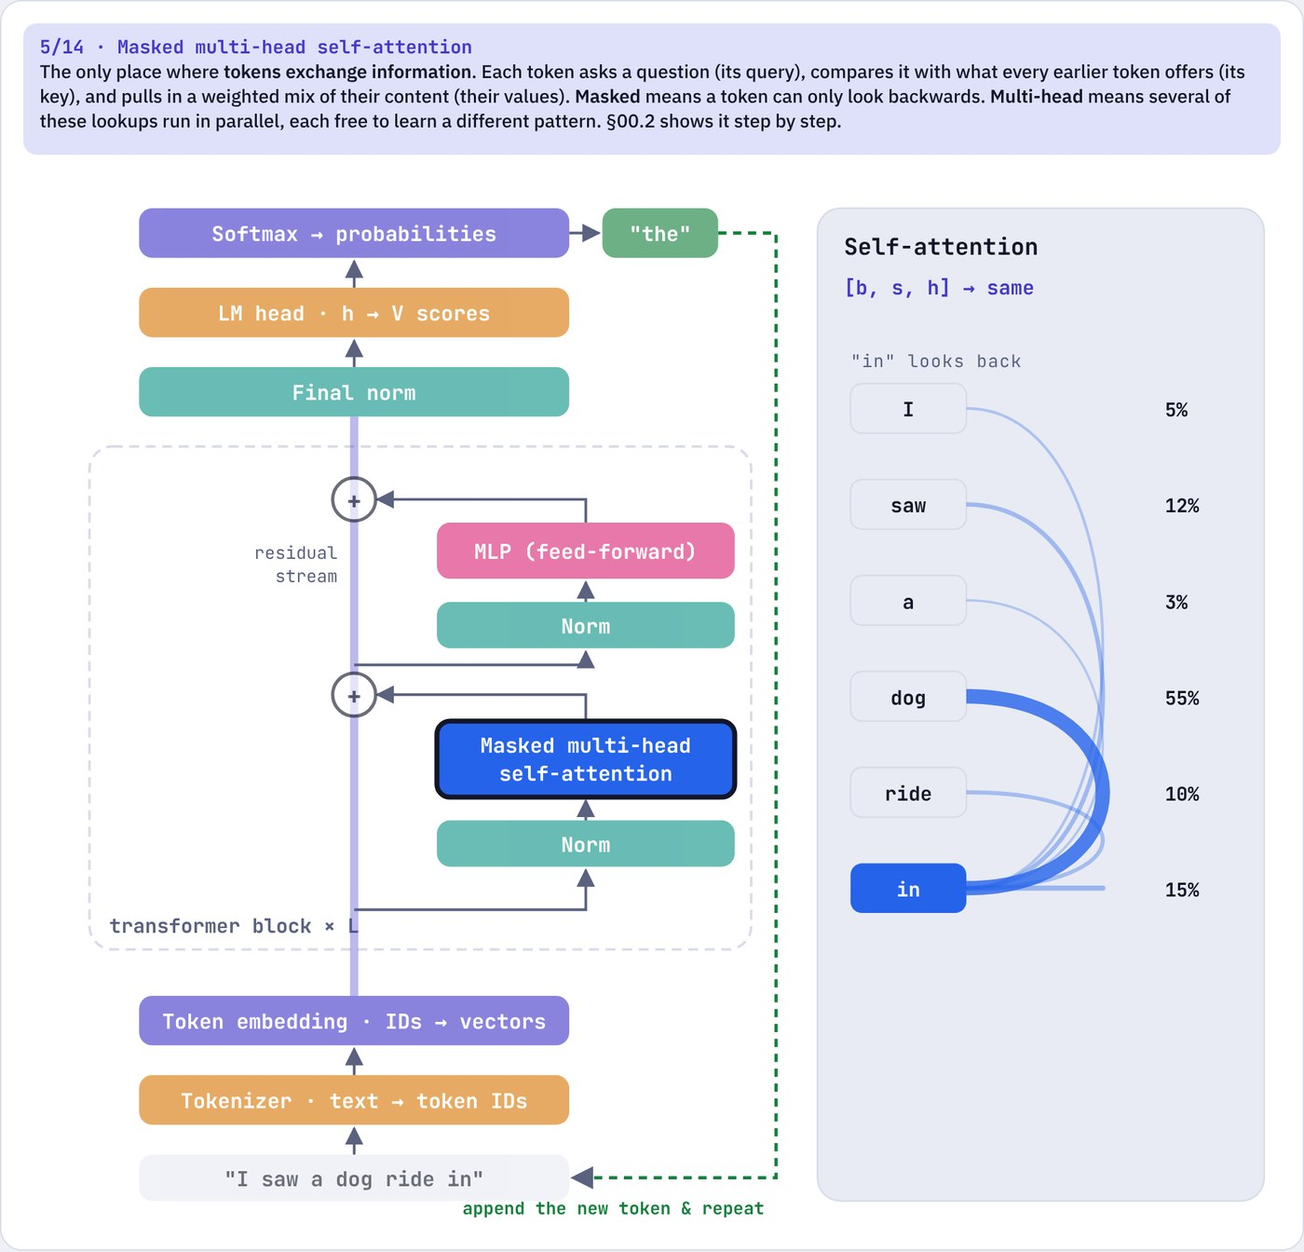
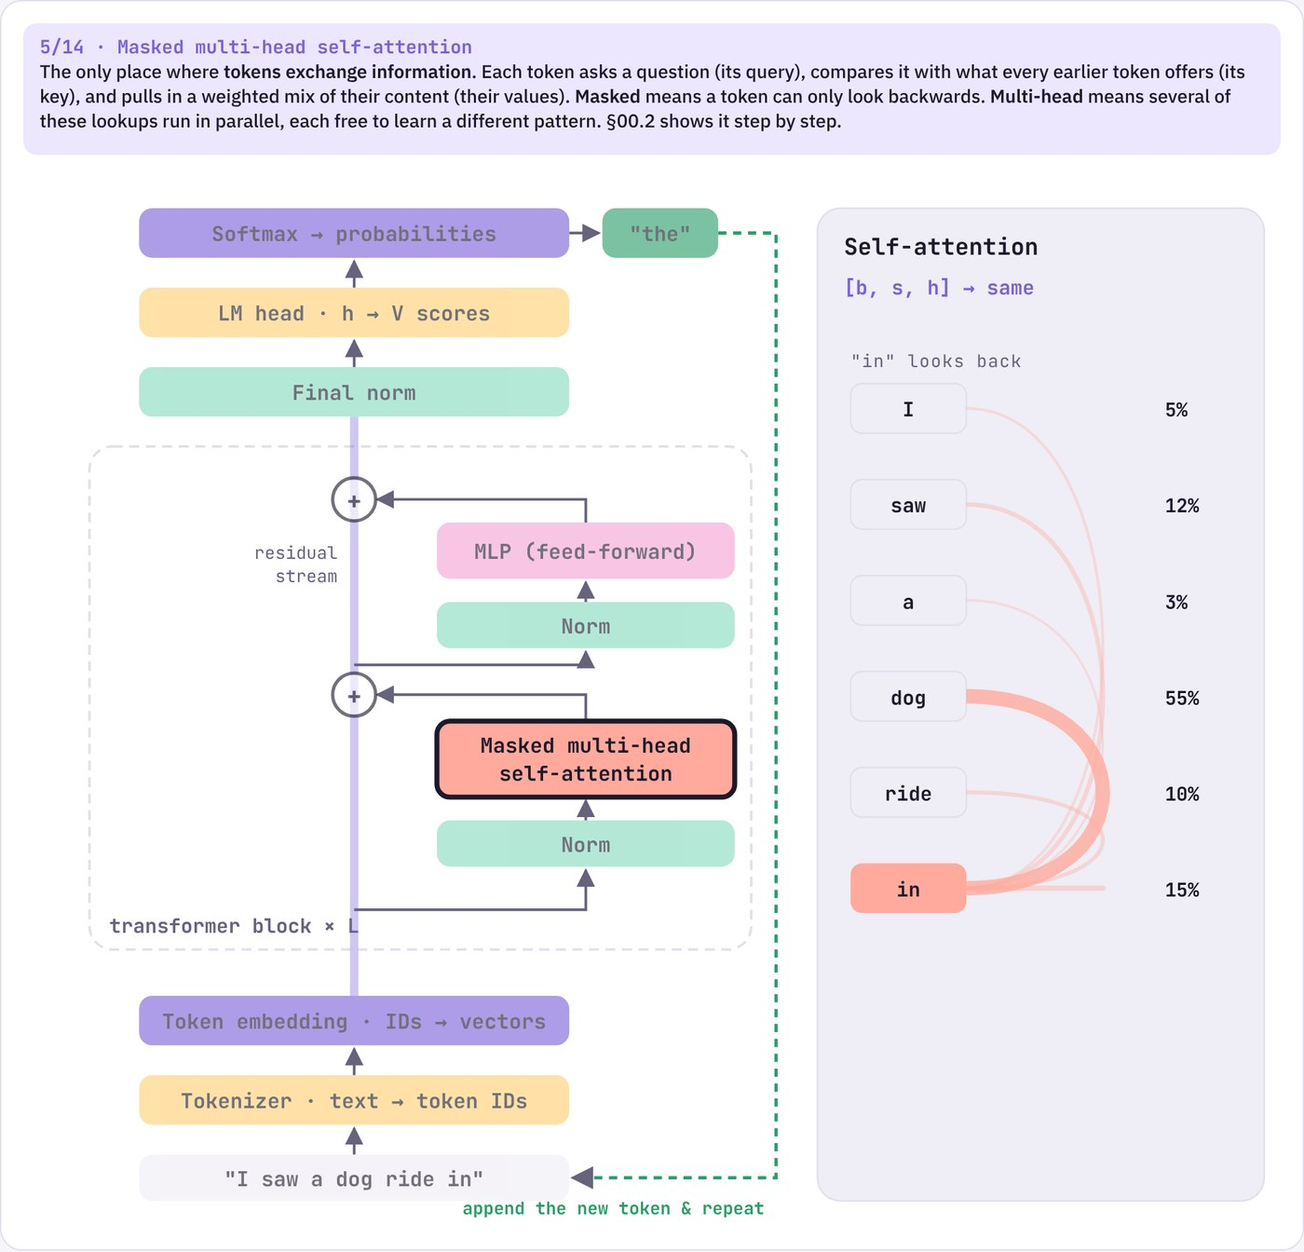
feat(posts): cover every inference optimisation in the visual guide
Adds batching, PagedAttention, GQA/MQA, FlashAttention, quantization, 2:4 sparsity, distillation, speculative decoding, pipeline and combined parallelism; regenerates all figures in the pastel palette.

Claude-Session: https://claude.ai/code/session_01UFQWSUsJMaVbTV8uBDUF1U

diff --git a/posts/2026-11-14-how-llm-inference-works-visual-guide/index.html b/posts/2026-11-14-how-llm-inference-works-visual-guide/index.html
@@ -29,6 +29,7 @@
 <li>what a language model is made of, piece by piece, and how text flows through it</li>
 <li>how <strong>attention</strong> lets one word borrow meaning from the words before it</li>
 <li>why writing a reply is slow, and why the limit is usually memory rather than arithmetic</li>
+<li>the tricks that make serving cheaper: smarter batching, paged memory, lighter attention, smaller numbers, and guessing ahead</li>
 <li>how a model too big for one GPU gets split across many, and what each kind of split costs</li>
 <li>why training a model needs many times more memory than running it</li>
 </ul>
@@ -102,54 +103,116 @@
 
 <blockquote>During decode, the GPU is not busy doing maths. It is busy fetching numbers from memory.</blockquote>
 
-<h2>4. When one GPU is not enough</h2>
+<p>Almost every optimisation that follows attacks one of two costs you have just seen: reading the weights again for every token, or storing the KV cache for every conversation.</p>
+
+<h2>4. Serving many people at once</h2>
+
+<p>If decode spends its time reading the weights, the obvious fix is to make each read count for more. Put several conversations in one <strong>batch</strong>, and every read of the weights serves all of them at once. The catch is that replies finish at different times. In <strong>static batching</strong>, the whole batch waits for its longest reply, and finished slots sit empty. In <strong>in-flight batching</strong> (also called continuous batching), a finished conversation leaves straight away and a waiting one takes its slot on the next step:</p>
+
+<img src="https://raw.githubusercontent.com/ylnhari/blog/main/posts/2026-11-14-how-llm-inference-works-visual-guide/images/07-batching.jpg" alt="Two timelines of four batch slots. Static batching takes 31 steps with slots idle 40% of the time while waiting for the longest request; in-flight batching refills each slot as soon as it frees up and finishes the same twelve requests in 23 steps.">
+
+<p>Batching only helps if there is room in memory for many KV caches. Older servers reserved one long, unbroken stretch of memory per conversation, sized for the longest reply it <em>might</em> write. NVIDIA's example: a model with a 2,048-token limit <a href="https://developer.nvidia.com/blog/mastering-llm-techniques-inference-optimization/">reserves room for all 2,048 tokens</a> even when the reply is short, and the unused part is wasted. <strong>PagedAttention</strong> borrows an idea from operating systems. It cuts the cache into small fixed-size blocks, hands them out only as tokens arrive, and keeps a table of which block lives where, so a conversation's blocks need not sit next to each other:</p>
+
+<img src="https://raw.githubusercontent.com/ylnhari/blog/main/posts/2026-11-14-how-llm-inference-works-visual-guide/images/08-paged-attention.jpg" alt="KV memory drawn as 32 physical blocks of 8 token slots, shared by eight requests whose blocks are scattered across memory. A block table maps each request's logical blocks to physical ones; 89% of memory now holds real tokens.">
+
+<p>Less waste per conversation means more conversations fit, which means bigger batches, which means each read of the weights does more work. Serving engines such as vLLM and TensorRT-LLM use both ideas.</p>
+
+<h2>5. Making attention cheaper</h2>
+
+<p>The KV cache holds a key and a value for every head. But the heads do not each need their own. In <strong>grouped-query attention</strong> (GQA), several query heads share one key head and one value head, so the cache shrinks by the size of the group. <strong>Multi-query attention</strong> (MQA) is the extreme case, where every query head shares a single key and value head. Llama 2 70B is <a href="https://developer.nvidia.com/blog/mastering-llm-techniques-inference-optimization/">one well-known model that uses GQA</a>:</p>
+
+<img src="https://raw.githubusercontent.com/ylnhari/blog/main/posts/2026-11-14-how-llm-inference-works-visual-guide/images/09-gqa.jpg" alt="Eight query heads, Q0 to Q7, wired to only two key/value heads: Q0 to Q3 share K0 and V0, Q4 to Q7 share K1 and V1. The KV cache is 25% of what standard multi-head attention would need.">
+
+<p>Sharing heads costs a little quality, and an existing model can be converted rather than retrained: NVIDIA notes that turning a model into MQA needs fine-tuning on <a href="https://developer.nvidia.com/blog/mastering-llm-techniques-inference-optimization/">about 5% of the original training volume</a>.</p>
+
+<p>The second cost in attention is less obvious. Standard attention builds the full table of scores, one for every pair of tokens, and writes that table to the GPU's large but slow main memory (HBM) and reads it back. For long inputs that table is enormous. <strong>FlashAttention</strong> never builds it. It works on one small tile at a time inside the GPU's tiny but very fast on-chip memory (SRAM), keeping a running total so the softmax still comes out exactly right:</p>
+
+<img src="https://raw.githubusercontent.com/ylnhari/blog/main/posts/2026-11-14-how-llm-inference-works-visual-guide/images/10-flash-attention.jpg" alt="FlashAttention: Q, K and V stay in HBM, but the N by N score matrix is never stored. Only one tile exists at a time, in SRAM, while a running maximum and sum accumulate the output. Score traffic through HBM drops to zero, with the same O(N squared) compute and an exact result.">
+
+<p>The maths is the same, and so is the answer. What changes is how many times data crosses the slow path to main memory. That is the theme of this whole guide again.</p>
+
+<h2>6. Making the model smaller</h2>
+
+<p>Fewer bytes per weight means less to read on every decode step and more room for the KV cache. There are three common ways to get there.</p>
+
+<p><strong>Quantization</strong> stores each number with fewer bits. Models are usually trained with 16 or 32 bits per value, but most can be represented <a href="https://developer.nvidia.com/blog/mastering-llm-techniques-inference-optimization/">with eight or even fewer</a>. Each weight snaps to the nearest of a small set of levels:</p>
+
+<img src="https://raw.githubusercontent.com/ylnhari/blog/main/posts/2026-11-14-how-llm-inference-works-visual-guide/images/11-quantization.jpg" alt="Weights from a bell-shaped distribution, top, each snapped down to one of 15 evenly spaced INT4 levels, bottom. The mean error is 0.118, and a 7B model's weights fall to 3.5 GB.">
+
+<p>Weights are the easy part, because they are fixed after training. The values flowing through the model are harder, because they contain occasional very large <strong>outliers</strong>. One outlier stretches the scale, and every other value loses precision. Much of the research in this area is about handling those outliers.</p>
+
+<p><strong>Sparsity</strong> sets some weights to zero. Random zeros barely help, because the GPU still has to check every position. But recent NVIDIA GPUs have hardware for one fixed pattern: <a href="https://developer.nvidia.com/blog/mastering-llm-techniques-inference-optimization/">two zeros in every group of four</a>. The zeros are dropped from storage, a small index records where the survivors were, and the hardware skips the missing work:</p>
+
+<img src="https://raw.githubusercontent.com/ylnhari/blog/main/posts/2026-11-14-how-llm-inference-works-visual-guide/images/12-sparsity.jpg" alt="A 4 by 16 weight matrix pruned 2:4: in every group of four values, the two smallest are set to zero, shown hatched. 32 non-zero values are stored with a small metadata index.">
+
+<p><strong>Distillation</strong> trains a smaller <em>student</em> model to copy a larger <em>teacher</em>. The trick is to learn from the teacher's whole spread of guesses rather than only the right answer. "Mat" is correct, but "rug" being a close second carries information too. The classic result is DistilBERT, which <a href="https://developer.nvidia.com/blog/mastering-llm-techniques-inference-optimization/">compresses BERT by 40% while keeping 97% of its language understanding, and runs 60% faster</a>:</p>
+
+<img src="https://raw.githubusercontent.com/ylnhari/blog/main/posts/2026-11-14-how-llm-inference-works-visual-guide/images/13-distillation.jpg" alt="Next-word probabilities for 'The cat sat on the ___'. The hard label puts everything on 'mat'; the teacher's soft target gives mat 66%, rug 16%, floor 11%, sofa 6%. The student is trained on a mix of both.">
+
+<h2>7. Guessing ahead</h2>
+
+<p>Decode is slow because each token waits for the one before it. <strong>Speculative decoding</strong> gets around that. A small, fast <em>draft</em> model guesses the next few tokens. The big model then checks all the guesses in a single pass, which costs about the same as producing one token, because the weights are read once either way. It keeps the guesses up to the first wrong one, and adds its own token at that point:</p>
+
+<img src="https://raw.githubusercontent.com/ylnhari/blog/main/posts/2026-11-14-how-llm-inference-works-visual-guide/images/14-speculative-decoding.jpg" alt="After the prompt 'I saw a dog ride', the draft model guesses 'in the bus'. The verifier agrees with 'in the' and replaces 'bus' with 'car', so one pass of the big model produces three tokens.">
+
+<p>The output is exactly what the big model would have written on its own. When the draft guesses well, several tokens come out of each pass of the big model. When it guesses badly, you lose a little time on the draft and nothing else.</p>
+
+<blockquote>Every technique so far either reads fewer bytes, stores fewer bytes, or gets more tokens out of each read.</blockquote>
+
+<h2>8. When one GPU is not enough</h2>
 
 <p>At two bytes per number, a 70-billion-parameter model is 140 GB of weights, already more than a common 80 GB data-centre GPU holds, before any KV cache. So big models are split across several GPUs. There are a few ways to make the split, and each answers the same question: <strong>which dimension of which block gets cut, and what has to travel between GPUs as a result?</strong></p>
 
-<img src="https://raw.githubusercontent.com/ylnhari/blog/main/posts/2026-11-14-how-llm-inference-works-visual-guide/images/07-gpus-needed.jpg" alt="Each box is one 80 GB GPU filled with weights only: 7B and 13B models fit on one, a 70B model needs at least two, and a 405B model needs at least eleven.">
+<img src="https://raw.githubusercontent.com/ylnhari/blog/main/posts/2026-11-14-how-llm-inference-works-visual-guide/images/15-gpus-needed.jpg" alt="Each box is one 80 GB GPU filled with weights only: 7B and 13B models fit on one, a 70B model needs at least two, and a 405B model needs at least eleven.">
 
 <p>The simplest is <strong>data parallelism</strong>: copy the whole model onto every GPU and send different conversations to each. It multiplies throughput and needs no communication, but it only works if the model fits on one GPU in the first place:</p>
 
-<img src="https://raw.githubusercontent.com/ylnhari/blog/main/posts/2026-11-14-how-llm-inference-works-visual-guide/images/08-data-parallel.jpg" alt="Data parallelism: four GPUs each hold a full 14 GB copy of a 7B model and serve different requests, with no traffic between them.">
+<img src="https://raw.githubusercontent.com/ylnhari/blog/main/posts/2026-11-14-how-llm-inference-works-visual-guide/images/16-data-parallel.jpg" alt="Data parallelism: four GPUs each hold a full 14 GB copy of a 7B model and serve different requests, with no traffic between them.">
 
-<p><strong>Pipeline parallelism</strong> gives each GPU a slice of the layers, like an assembly line. It helps a model fit, but a single reply still has to pass through every stage in turn.</p>
+<p><strong>Pipeline parallelism</strong> gives each GPU a slice of the layers, like an assembly line. With four stages, each GPU holds <a href="https://developer.nvidia.com/blog/mastering-llm-techniques-inference-optimization/">a quarter of the weights</a>. The problem is waiting: GPU 3 has nothing to do until GPU 0 has finished. Splitting the batch into smaller <strong>microbatches</strong> keeps more stages busy at once, but the idle "bubble" at the start and end never fully goes away:</p>
+
+<img src="https://raw.githubusercontent.com/ylnhari/blog/main/posts/2026-11-14-how-llm-inference-works-visual-guide/images/17-pipeline-parallel.jpg" alt="Pipeline parallelism: 32 layers split into four stages on four GPUs. With the batch split into four microbatches, each GPU starts one step after the one before it; hatched areas show idle time, 43% of the total.">
+
+<p>Pipelining helps a model fit and adds throughput once the pipeline is full. It never makes a single request faster.</p>
 
 <p><strong>Tensor parallelism</strong> splits the weight matrices <em>inside</em> every layer, so all GPUs work on every token together. It rests on one neat trick. Split the MLP's first weight matrix by columns and the second by rows. Each GPU can then do both multiplications on its own half, with no talking in between, and one combining step at the end (an <strong>All-Reduce</strong>) adds the halves up:</p>
 
-<img src="https://raw.githubusercontent.com/ylnhari/blog/main/posts/2026-11-14-how-llm-inference-works-visual-guide/images/09-tp-matmul-trick.jpg" alt="Tensor parallelism in the MLP: A is split by columns and B by rows, so each GPU computes its own half and a partial sum, and one All-Reduce combines them. There is no communication between the two matrix multiplies.">
+<img src="https://raw.githubusercontent.com/ylnhari/blog/main/posts/2026-11-14-how-llm-inference-works-visual-guide/images/18-tp-matmul-trick.jpg" alt="Tensor parallelism in the MLP: A is split by columns and B by rows, so each GPU computes its own half and a partial sum, and one All-Reduce combines them. There is no communication between the two matrix multiplies.">
 
-<p>That combining step happens twice in every layer, so tensor parallelism needs the very fast links found <em>inside</em> one server. Real systems mix the methods: tensor parallelism inside a server, pipeline parallelism across servers, and data parallelism to add more copies for more users.</p>
+<p>That combining step happens twice in every layer, so tensor parallelism needs the very fast links found <em>inside</em> one server. Real systems mix the methods: tensor parallelism inside a server, pipeline parallelism across servers, and data parallelism to add more copies for more users. Here is one such layout, sixteen GPUs in two servers:</p>
 
-<h2>5. The copies tensor parallelism leaves behind</h2>
+<img src="https://raw.githubusercontent.com/ylnhari/blog/main/posts/2026-11-14-how-llm-inference-works-visual-guide/images/21-combined-parallelism.jpg" alt="Two servers of eight GPUs. Inside each server, eight GPUs form one tensor-parallel group sharing the fast NVLink connection; the two servers are independent copies, so data parallelism of 2 doubles throughput.">
+
+<h2>9. The copies tensor parallelism leaves behind</h2>
 
 <p>Tensor parallelism has a blind spot. Between the split blocks, every GPU holds the <em>same</em> full block of numbers and runs the same normalisation step on it. The same data, stored twice:</p>
 
-<img src="https://raw.githubusercontent.com/ylnhari/blog/main/posts/2026-11-14-how-llm-inference-works-visual-guide/images/10-tp-copies.jpg" alt="Under tensor parallelism, LayerNorm runs on an identical full [b, s, h] block on both GPUs: activations at 100% on each, marked as duplicates.">
+<img src="https://raw.githubusercontent.com/ylnhari/blog/main/posts/2026-11-14-how-llm-inference-works-visual-guide/images/19-tp-copies.jpg" alt="Under tensor parallelism, LayerNorm runs on an identical full [b, s, h] block on both GPUs: activations at 100% on each, marked as duplicates.">
 
 <p>Normalisation treats each token on its own, so the fix is to cut that block along the <strong>sequence</strong> instead: each GPU handles half the tokens. This is called <strong>sequence parallelism</strong>, and it removes the copies without adding any communication:</p>
 
-<img src="https://raw.githubusercontent.com/ylnhari/blog/main/posts/2026-11-14-how-llm-inference-works-visual-guide/images/11-sequence-split.jpg" alt="Sequence parallelism: the same block cut along s, so GPU 0 holds tokens 0 to 3 and GPU 1 holds tokens 4 to 7, each at 50% of the activation memory with no copies.">
+<img src="https://raw.githubusercontent.com/ylnhari/blog/main/posts/2026-11-14-how-llm-inference-works-visual-guide/images/20-sequence-split.jpg" alt="Sequence parallelism: the same block cut along s, so GPU 0 holds tokens 0 to 3 and GPU 1 holds tokens 4 to 7, each at 50% of the activation memory with no copies.">
 
 <p>The research that introduced this pairing reports that, together with smarter recomputation, it <a href="https://arxiv.org/abs/2205.05198">cuts activation memory by 5×</a>.</p>
 
-<h2>6. Why training needs so much more</h2>
+<h2>10. Why training needs so much more</h2>
 
 <p>All of that stored activation memory is mostly a <em>training</em> problem. To learn, a model runs backwards through every layer, and each step backwards needs the numbers that went into that layer on the way forward. Training also stores gradients and optimiser state for every weight. Running a model forward only needs the weights and the KV cache:</p>
 
-<img src="https://raw.githubusercontent.com/ylnhari/blog/main/posts/2026-11-14-how-llm-inference-works-visual-guide/images/12-training-memory.jpg" alt="Estimated memory for a 7B model at 4,096 tokens: about 16 GB to serve (weights plus KV cache) against about 216 GB to train (weights, gradients, optimiser state and stored activations).">
+<img src="https://raw.githubusercontent.com/ylnhari/blog/main/posts/2026-11-14-how-llm-inference-works-visual-guide/images/22-training-memory.jpg" alt="Estimated memory for a 7B model at 4,096 tokens: about 16 GB to serve (weights plus KV cache) against about 216 GB to train (weights, gradients, optimiser state and stored activations).">
 
 <p>The training bar is an estimate. It assumes the usual 16 bytes per weight for mixed-precision Adam, plus the per-layer activation formula from <a href="https://arxiv.org/abs/2205.05198">the same Megatron paper</a>. The interactive page lets you switch on recomputation and watch the activation bar collapse.</p>
 
 <h2>Explore it yourself</h2>
 
-<p>Every figure above is a frozen frame. The <a href="https://ylnhari.github.io/ml-scratchpad/llm-inference-visualized/">interactive page</a> lets you step through each one, and it covers more: FlashAttention, paged KV memory, quantization, batching, speculative decoding, and what newer models change. If you want runnable code for the same ideas, the same repository has notebooks on <a href="https://ylnhari.github.io/ml-scratchpad/attention-transformer/">attention</a>, <a href="https://ylnhari.github.io/ml-scratchpad/rope/">positional encoding</a>, <a href="https://ylnhari.github.io/ml-scratchpad/kv-cache/">the KV cache</a>, <a href="https://ylnhari.github.io/ml-scratchpad/continuous-batching/">batching</a> and <a href="https://ylnhari.github.io/ml-scratchpad/vllm-memory/">GPU memory in vLLM</a>.</p>
+<p>Every figure above is a frozen frame. The <a href="https://ylnhari.github.io/ml-scratchpad/llm-inference-visualized/">interactive page</a> lets you step through each one, change the settings, and see what newer models change: RMSNorm, SwiGLU, mixture of experts and sampling. If you want runnable code for the same ideas, the same repository has notebooks on <a href="https://ylnhari.github.io/ml-scratchpad/attention-transformer/">attention</a>, <a href="https://ylnhari.github.io/ml-scratchpad/rope/">positional encoding</a>, <a href="https://ylnhari.github.io/ml-scratchpad/kv-cache/">the KV cache</a>, <a href="https://ylnhari.github.io/ml-scratchpad/continuous-batching/">batching</a> and <a href="https://ylnhari.github.io/ml-scratchpad/vllm-memory/">GPU memory in vLLM</a>.</p>
 
 <h2>Sources &amp; caveats</h2>
 
 <ul>
-<li><a href="https://developer.nvidia.com/blog/mastering-llm-techniques-inference-optimization/">NVIDIA: Mastering LLM Techniques: Inference Optimization</a>: the 14 GB weights and roughly 2 GB KV-cache figures for a 7B model, and the overall map of techniques this guide expands on.</li>
+<li><a href="https://developer.nvidia.com/blog/mastering-llm-techniques-inference-optimization/">NVIDIA: Mastering LLM Techniques: Inference Optimization</a>: the 14 GB weights and roughly 2 GB KV-cache figures for a 7B model; the 2,048-token reservation example; Llama 2 70B as a GQA model and the ~5% uptraining figure for MQA; "eight or even fewer" bits; the 2:4 pattern; the DistilBERT 40% / 97% / 60% figures; and the overall map of techniques this guide follows.</li>
 <li><a href="https://arxiv.org/abs/2205.05198">Korthikanti et al., Reducing Activation Recomputation in Large Transformer Models</a>: sequence parallelism, the 5× activation-memory reduction, and the activation formula behind the training estimate.</li>
-<li>Figures are drawn from the interactive page. Grid sizes are scaled down so they can be drawn, the utilisation bars are illustrative, and the training-memory bar is an estimate, not a measurement.</li>
+<li>Figures are drawn from the interactive page. Grid sizes are scaled down so they can be drawn, and the numbers inside the figures (batching steps, paged-memory use, pipeline idle time, quantization error) come from those toy examples, not from measurements of a real server. The training-memory bar is an estimate.</li>
 </ul>
 
 <!-- === POST CONTENT ENDS HERE === -->

diff --git a/posts/2026-11-14-how-llm-inference-works-visual-guide/charts/make_screens.py b/posts/2026-11-14-how-llm-inference-works-visual-guide/charts/make_screens.py
@@ -38,13 +38,29 @@ with sync_playwright() as p:
     pg.click("#pd-skip")                                    # first decode step, full picture
     save(pg.locator("#phases .fig"), "05-decode")
     save(pg.locator("#kv .fig"), "06-kv-cache")
-    save(pg.locator("#par-why .fig"), "07-gpus-needed")
-    save(pg.locator("#par-dp .fig"), "08-data-parallel")
-    save(pg.locator("#par-tpc .fig"), "09-tp-matmul-trick")
+    save(pg.locator("#batching .fig").first, "07-batching")
+    pg.click('#pg-seg button:text-is("Paged (8-token blocks)")')
+    save(pg.locator("#paged .fig").first, "08-paged-attention")
+    pg.click('#at-seg button:text-is("GQA · 2 KV")')
+    save(pg.locator("#attention .fig").first, "09-gqa")
+    pg.click('#fa-seg button:text-is("FlashAttention")'); pg.wait_for_timeout(300)
+    save(pg.locator("#flash .fig").first, "10-flash-attention")
+    save(pg.locator("#quant .fig").first, "11-quantization")
+    pg.click('#sp-seg button:text-is("Prune 2:4")')
+    save(pg.locator("#sparsity .fig").first, "12-sparsity")
+    save(pg.locator("#distill .fig").first, "13-distillation")
+    for _ in range(3): pg.click("#sd-next"); pg.wait_for_timeout(400)
+    save(pg.locator("#spec .fig").first, "14-speculative-decoding")
+    save(pg.locator("#par-why .fig"), "15-gpus-needed")
+    save(pg.locator("#par-dp .fig"), "16-data-parallel")
+    pg.click('#pp-m button:text-is("4")')
+    save(pg.locator("#par-pp .fig").first, "17-pipeline-parallel")
+    save(pg.locator("#par-tpc .fig"), "18-tp-matmul-trick")
     pg.click('#cube-seg button:text-is("TP · LayerNorm (copied)")')
-    save(pg.locator("#par-sp .fig").first, "10-tp-copies")
+    save(pg.locator("#par-sp .fig").first, "19-tp-copies")
     pg.click('#cube-seg button:text-is("SP · split s")')
-    save(pg.locator("#par-sp .fig").first, "11-sequence-split")
+    save(pg.locator("#par-sp .fig").first, "20-sequence-split")
+    save(pg.locator("#par-combo .fig").first, "21-combined-parallelism")
     for _ in range(6): pg.click("#bw-next")                # backward pass: memory stage
-    save(pg.locator("#backward .fig"), "12-training-memory")
+    save(pg.locator("#backward .fig"), "22-training-memory")
     b.close()
